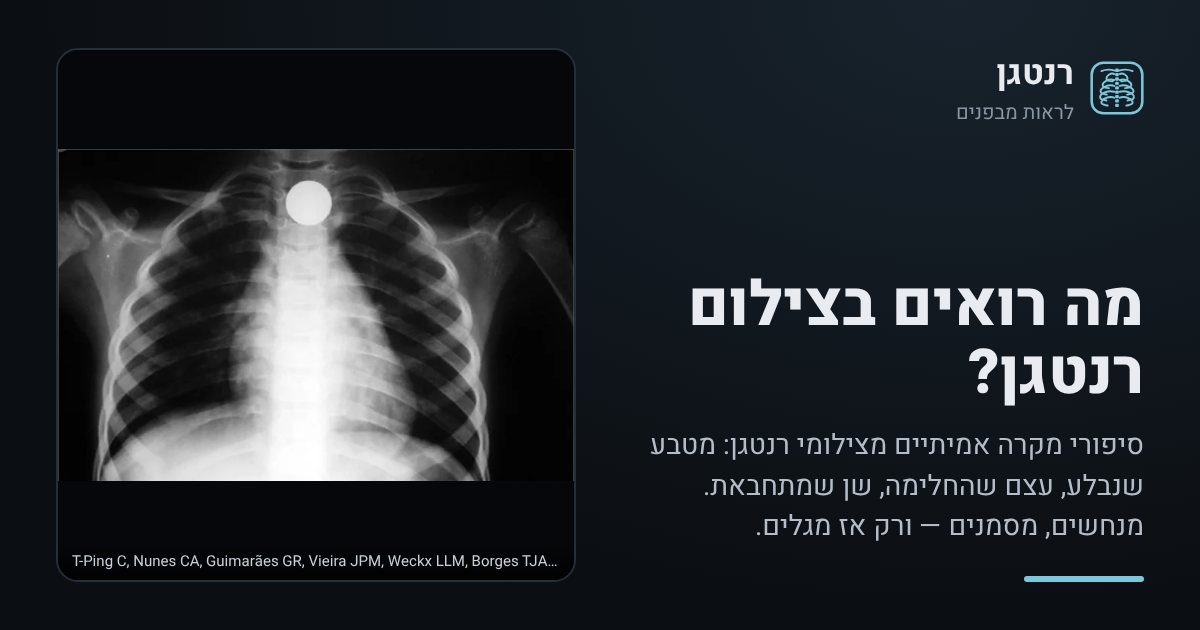
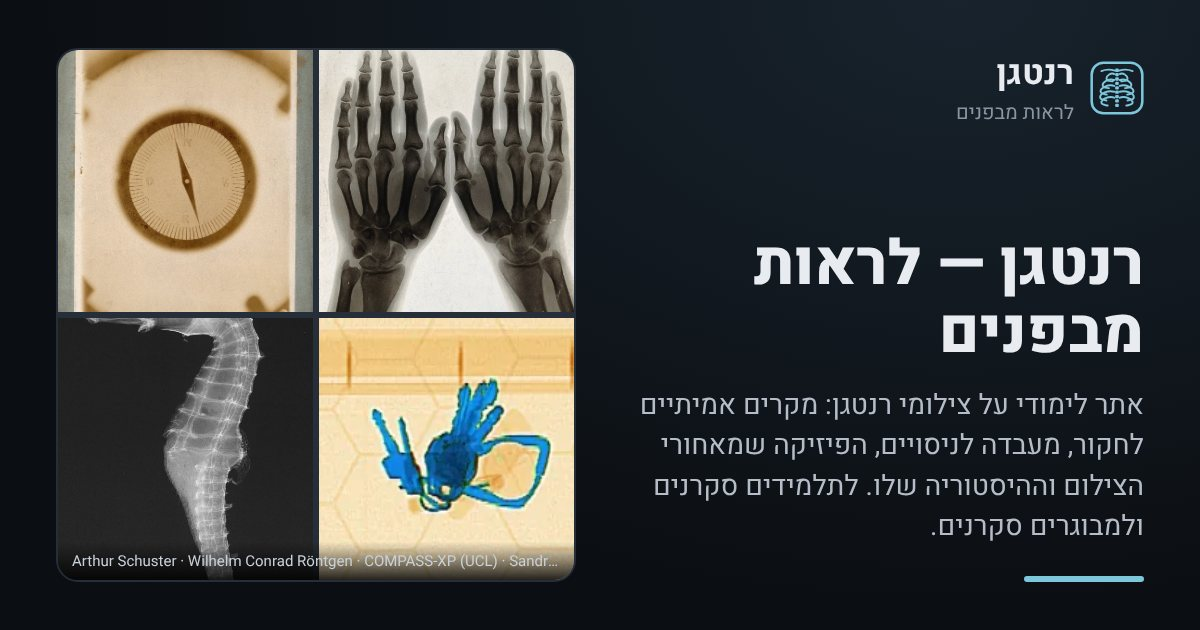
Home page: general share card and description
The home share image was one case's X-ray (a swallowed coin). It is
now a collage of four pictures from across the site (Röntgen's compass,
Schuster's hands, the seahorse, the scanner), with general text and a
matching meta description.

Claude-Session: https://claude.ai/code/session_016cRPyU1U21H7hvqgbpvCgL

diff --git a/index.html b/index.html
@@ -3,7 +3,7 @@
   <head>
     <!-- @head -->
     <title>{{SITE_NAME}} · {{SITE_TAGLINE}}</title>
-    <meta name="description" content="אתר לימודי על צילומי רנטגן: חוקרים סיפורי מקרה, מסמנים על הצילום, ומגלים את הפיזיקה שמאחורי התמונה." />
+    <meta name="description" content="אתר לימודי בעברית על צילומי רנטגן: מקרים אמיתיים לחקור, מעבדה לניסויים, הפיזיקה שמאחורי הצילום וההיסטוריה שלו — לתלמידים ולמבוגרים סקרנים." />
   </head>
   <body>
     <!-- @header -->
